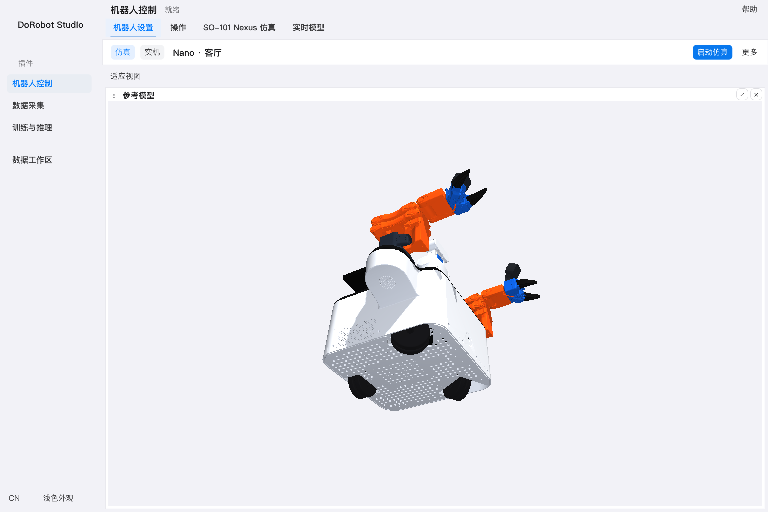
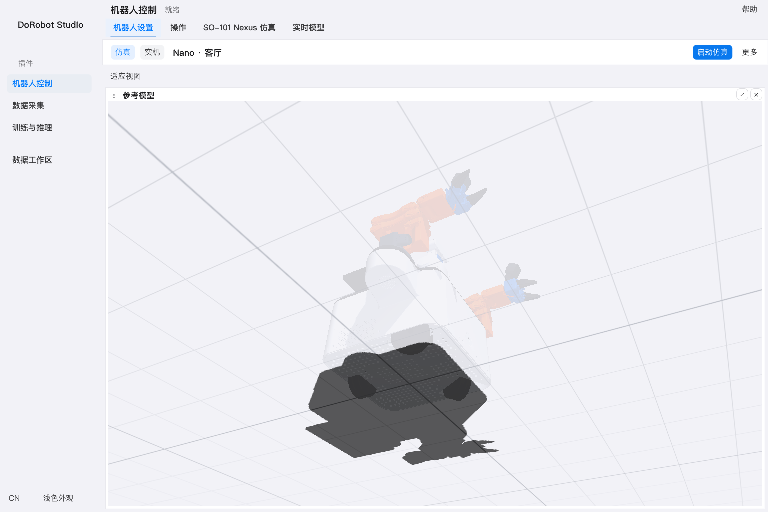
Preserve the viewport grid and ground shadows

Changed region(s): [[0.375, 0.3125, 0.6562, 0.9062], [0.5938, 0.5, 0.7188, 0.6562], [0.1562, 0.25, 0.1875, 0.2812]]

diff --git a/vendor/makepad-urdf-player/src/robot_view.rs b/vendor/makepad-urdf-player/src/robot_view.rs
@@ -172,6 +172,12 @@ pub enum RobotViewAction {
     LoadFailed { path: String, error: String },
 }
 
+/// Offscreen supersampling factor for the 3D pass. 2.0 = 4 samples/pixel
+/// after the composite's bilinear downsample; the cost is 4x the fragment
+/// work on a pass that draws a few hundred thousand triangles, which is
+/// nothing next to having a readable silhouette.
+const SSAA_SCALE: f64 = 2.0;
+
 /// Shadow map resolution. 2048 is what MuJoCo's Filament backend defaults to
 /// and is ample for a box fitted to one robot.
 const SHADOW_MAP_SIZE: usize = 2048;
@@ -1613,9 +1619,9 @@ impl RobotView {
             0.0
         };
         self.draw_grid.depth_clip = 0.0;
-        // External scenes provide their own ground. Show the viewer's floor
-        // only from above so its underside cannot wash out the model.
-        if self.show_grid && self.external_items.is_empty() && scene_state.camera_pos.y > self.grid_y {
+        // An external scene brings its own ground; the viewer's grid floor
+        // would z-fight it at y = 0.
+        if self.show_grid && self.external_items.is_empty() {
             self.draw_grid.draw(cx, grid_geom);
             // Mirror floor: the robot reflected through the ground plane,
             // blended at the material reflectance — MuJoCo's reflectance look.
@@ -1962,6 +1968,12 @@ impl Widget for RobotView {
         self.ensure_initialized(cx.cx);
         self.ensure_geometries(cx.cx);
         self.camera.set_desktop_viewport_rect(rect);
+        // Supersample: makepad has no MSAA render targets (no sample count in
+        // TextureFormat), so the offscreen 3D pass is rendered at SSAA_SCALE x
+        // and the composite's bilinear fetch box-filters it back down. This is
+        // the only antialiasing the robot's silhouette gets — without it the
+        // STL edges crawl visibly while orbiting.
+        self.pass.set_size(cx, rect.size * SSAA_SCALE);
         self.pass.set_color_texture(
             cx,
             &self.color_texture,
@@ -1986,8 +1998,8 @@ impl Widget for RobotView {
         }
         cx.end_pass(&self.pass);
 
-        // DepthD32 is an attachment for depth testing. Only the color target
-        // can be sampled by this composite shader.
+        // The DepthD32 attachment is used for depth testing only. The
+        // composite samples the color target.
         self.draw_bg.set_scene_texture(&self.color_texture);
         // camera basis for the directional sky dome in the composite shader
         if let Some(scene_state) = self.camera.desktop_scene_state(rect, cx.time()) {

diff --git a/vendor/makepad-urdf-player/src/render/draw.rs b/vendor/makepad-urdf-player/src/render/draw.rs
@@ -461,6 +461,8 @@ script_mod! {
             // only a whisper of a fade at the very rim of the quad, which sits
             // far enough out that its edge lands inside the horizon line
             let fade = 1.0 - smoothstep(self.extent * 0.75, self.extent * 0.98, r)
+            // No above-the-plane fade: the grid is drawn from both sides, so
+            // it still reads when the camera dips under the ground.
             // Pale #FFFFC5 soil with darker lines punching through it — the
             // ground is bright, so the grid reads as shadow, not glow.
             // Scalar arithmetic only: multiplying a let-bound vec3 by a float
